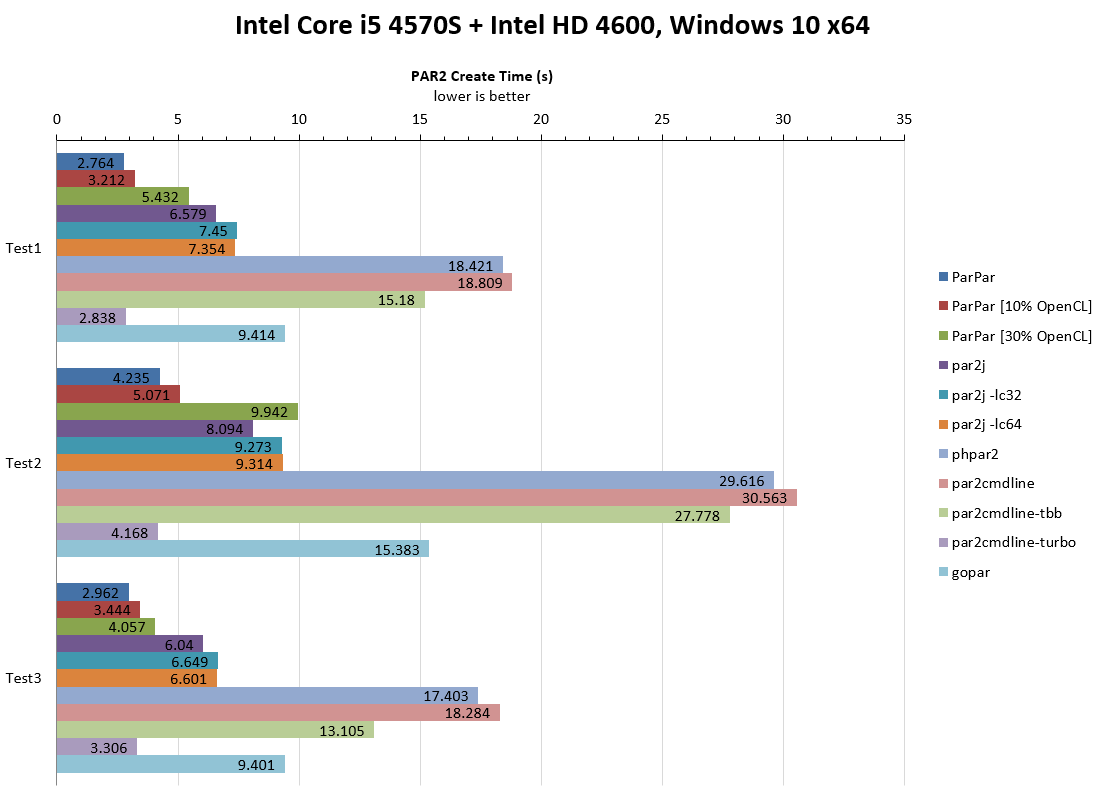
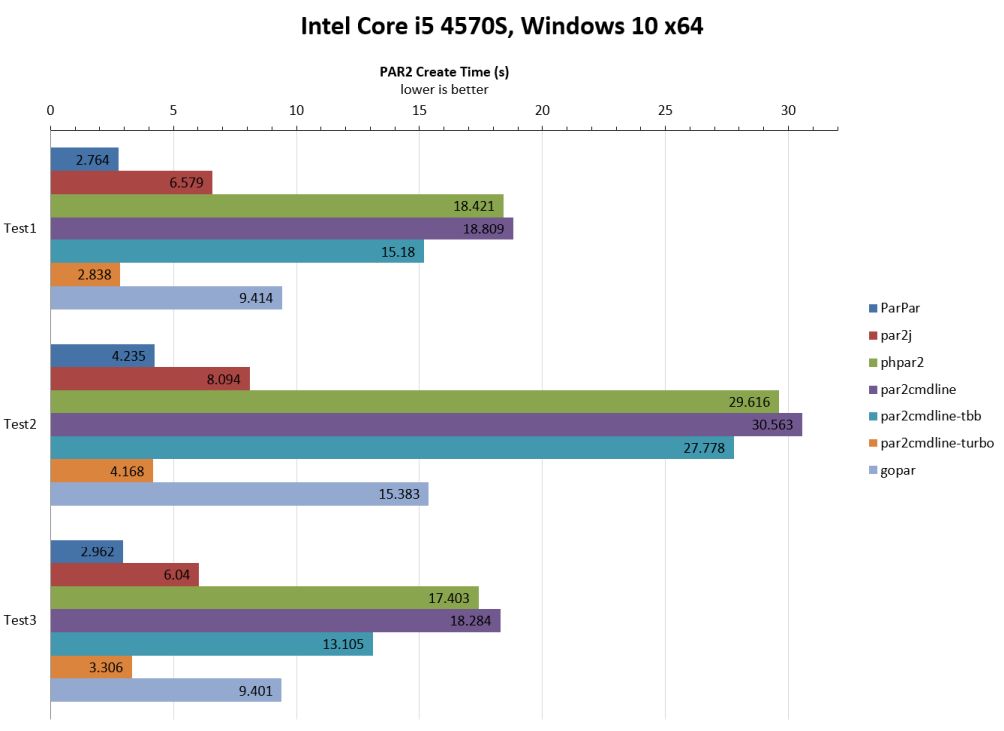
Update benchmarks Remove OpenCL results as they perform on this test (may need fewer threads to be better)

diff --git a/benchmarks/info.md b/benchmarks/info.md
@@ -14,6 +14,8 @@ Sample Benchmark Results
 
 ![](result-4570s.png)
 
+![](result-12700k.png)
+
 Benchmark Details
 =================
 
@@ -34,7 +36,7 @@ Applications Tested (and commands given)
     -   [TBB won't work on non-x86 CPUs, or older versions of Windows](https://www.threadingbuildingblocks.org/system-requirements)
 -   [par2cmdline-turbo 1.0.0](https://github.com/animetosho/par2cmdline-turbo) [2023-05-24]
     -   `par2_turbo c -s [blocksize] -c [rblocks] -n1 -m 2000 [output] [input]`
-    -   par2cmdline ~0.8.2 using the ParPar 0.4.0 backend
+    -   par2cmdline 0.8.1~0.8.2 using the ParPar 0.4.0 backend
 -   [gopar](https://github.com/akalin/gopar) [2021-05-24]
     -   `gopar -g [threads] c -s [blocksize] -c [rblocks] [output].par2 [input]`
     -   Compiled using Go v1.20.4
@@ -49,7 +51,7 @@ Applications Tested (and commands given)
 Applications Not Tested
 -----------------------
 
-The only other complete-ish implementation of PAR2 I could find is [QuickPar](http://www.quickpar.org.uk/). This is a Windows-only GUI application which hasn't been updated since 2004, and no source code available. The application has largely be superseeded by newer clients, and considering its single threaded nature, is unlikely competitive by today's standards.
+The only other complete-ish implementation of PAR2 I could find is [QuickPar](http://www.quickpar.org.uk/). This is a Windows-only GUI application which hasn't been updated since 2004, and no source code available. The application has largely be superseded by newer clients, and considering its single threaded nature, is unlikely competitive by today's standards.
 
 Running Your Own Benchmarks
 ===========================
